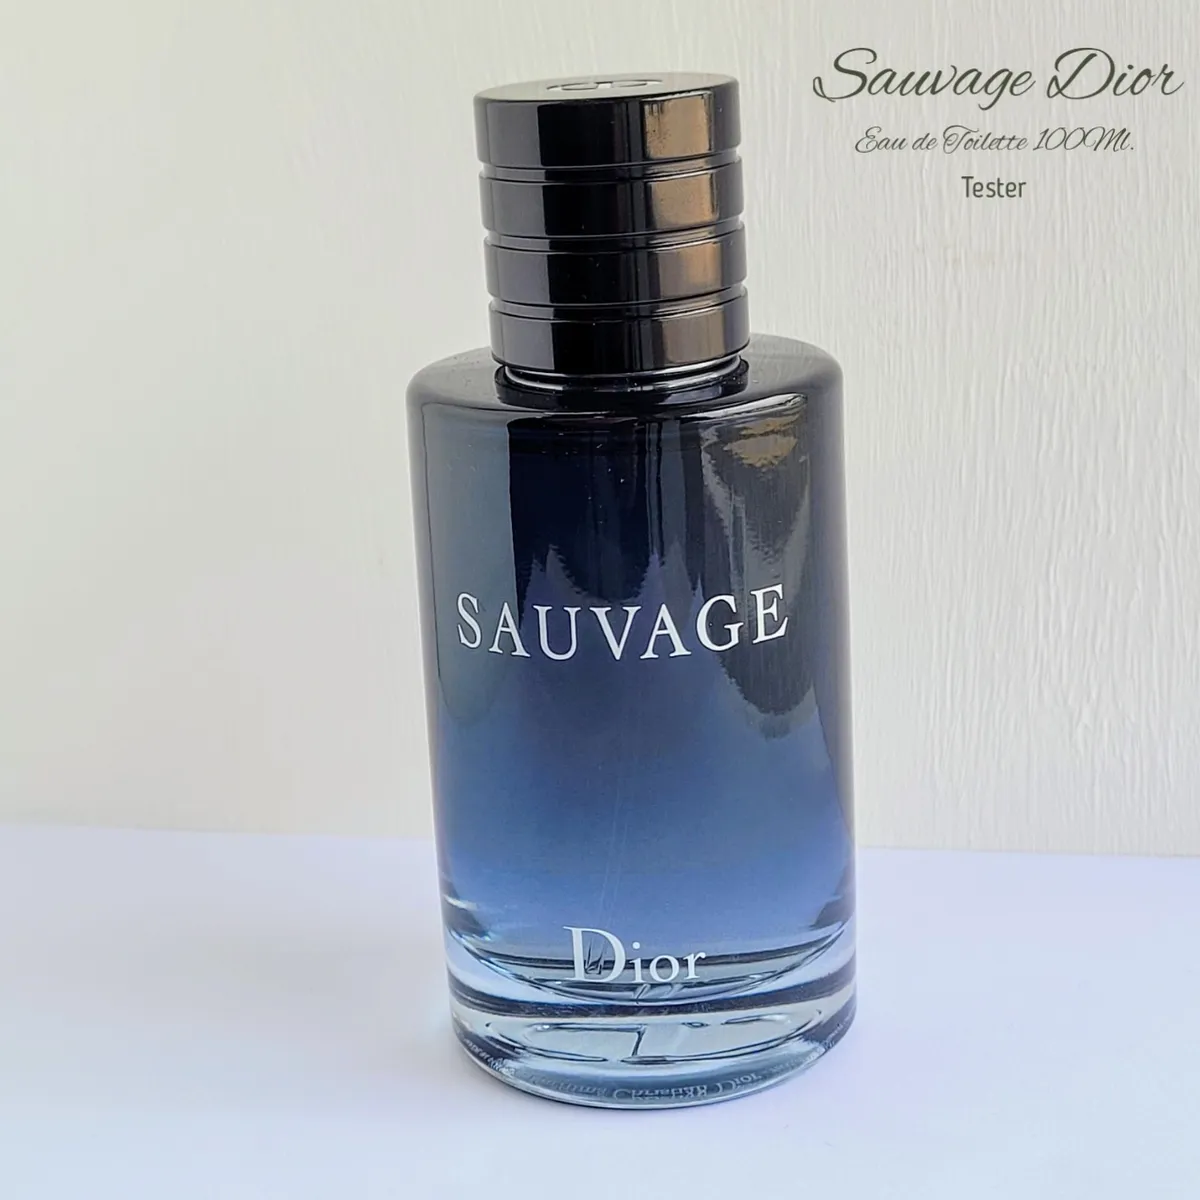
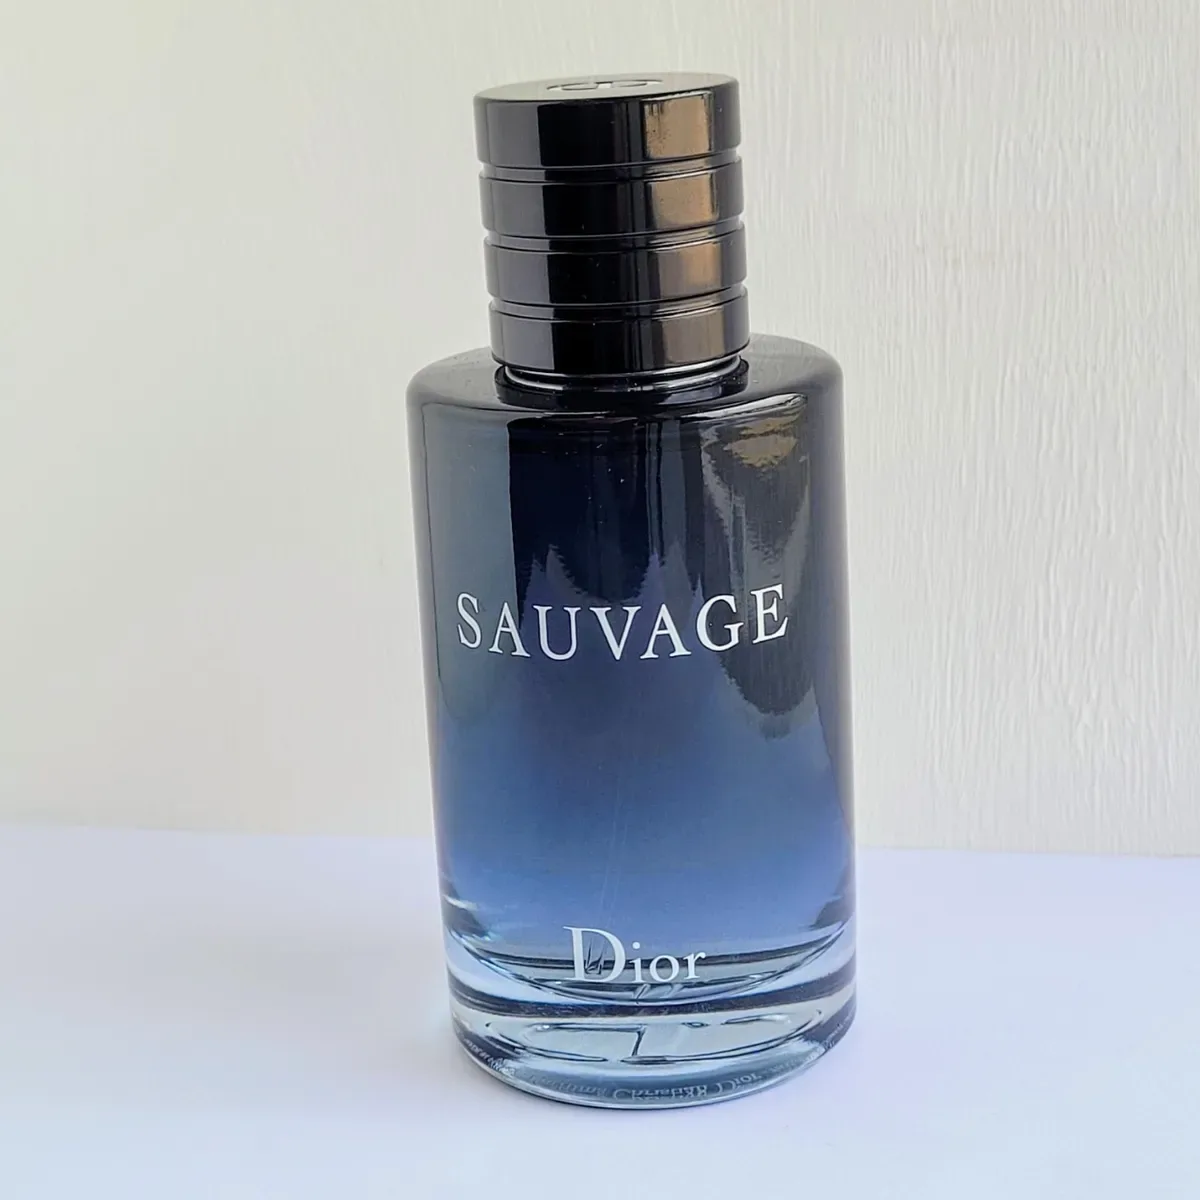
feat: remove the seller caption from the Dior Sauvage photo
The wall text, including the word tester, is gone. The bottle still reads Sauvage and Dior.

Changed region(s): [[0.6783, 0.0308, 0.9867, 0.185]]

diff --git a/data/products.ts b/data/products.ts
@@ -5812,7 +5812,7 @@ export const rawProducts: RawProduct[] = [
       gender: "hombre",
       cost: 0,
       images: ["/products/sauvage-tester.webp"],
-      description: "El vidrio dice Sauvage y Dior. El título de la foto lo marca como tester.",
+      description: "El vidrio dice Sauvage y Dior.",
       notes: {
         top: [],
         heart: [],
@@ -5821,7 +5821,7 @@ export const rawProducts: RawProduct[] = [
       sizeMl: 100,
       inStock: true,
       category: "Eau de Toilette",
-      tags: ["tester"]
+      tags: []
     },
   {
       id: "eros-pour-femme",
